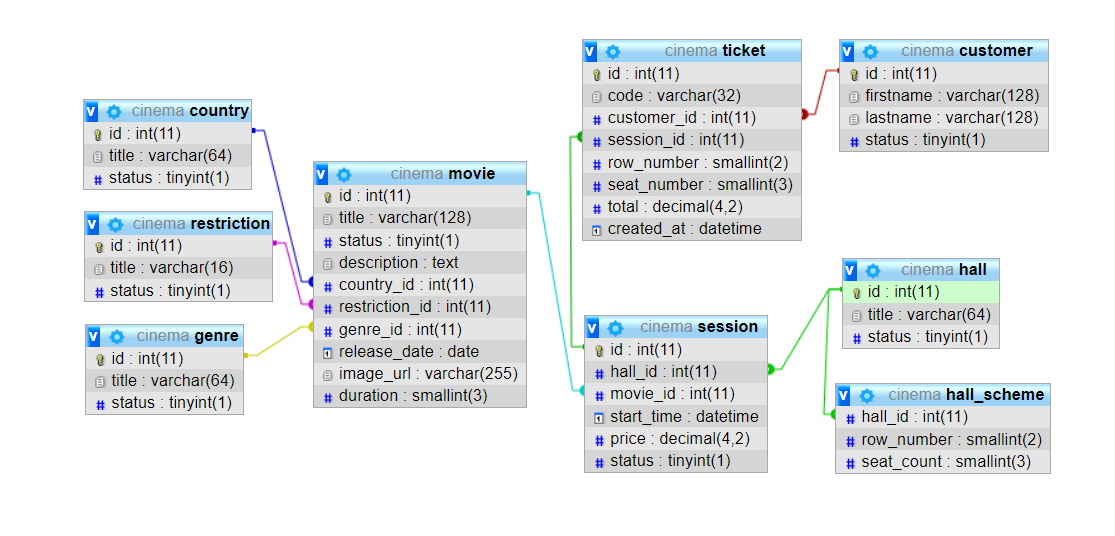
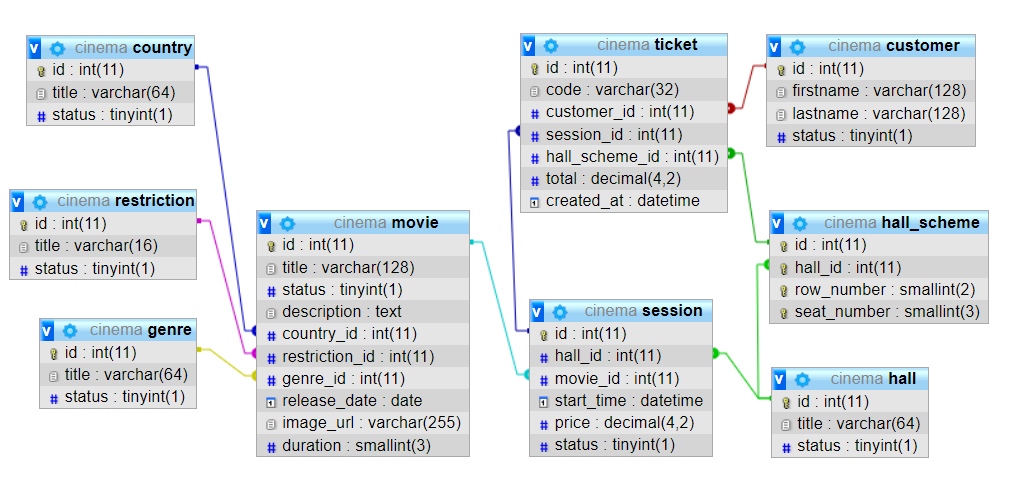
fix

diff --git a/README.md b/README.md
@@ -33,11 +33,13 @@
 | title | VARCHAR(64) | NOT NULL |
 | status | TINYINT(1) | NOT NULL |
 ### hall_scheme - Схема кинозалов  
+Составной уникальный ключ на (hall_id, row_number, seat_number)  
 | Наименование поля | Тип поля | Примечания
 | --- | --- | --- |
-| hall_id | INT(11) | NOT NULL, PK |
-| row_number | SMALLINT(2) | NOT NULL, PK <br /> Номер ряда |
-| seat_count | SMALLINT(3) | NOT NULL <br /> Кол-во мест в ряду |
+| id | INT(11) | NOT NULL, PK |
+| hall_id | INT(11) | NOT NULL, UNQ <br /> Зал |
+| row_number | SMALLINT(2) | NOT NULL, UNQ <br /> Номер ряда |
+| seat_number | SMALLINT(3) | NOT NULL, UNQ <br /> Номер места |
 ### movie - Список кинофильмов
 | Наименование поля | Тип поля | Примечания
 | --- | --- | --- |
@@ -74,8 +76,7 @@
 | code | VARCHAR(32) | NOT NULL |
 | customer_id | INT(11) | NOT NULL |
 | session_id | INT(11) | NOT NULL |
-| row_number | SMALLINT(2) | NOT NULL |
-| seat_number | SMALLINT(3) | NOT NULL |
+| hall_scheme_id | INT(11) | NOT NULL |
 | total | DECIMAL(4,2) | NOT NULL |
 | created_at | DATETIME | NOT NULL |
 
